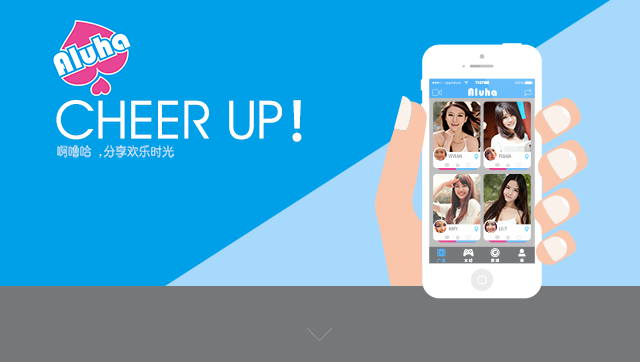
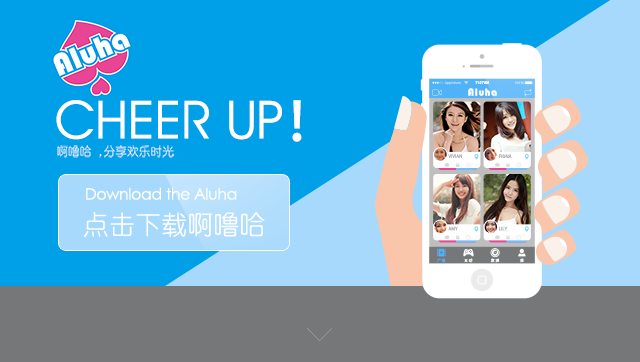
手机界面

Changed region(s): [[0.0938, 0.4558, 0.4688, 0.6989]]

diff --git a/m2/index.html b/m2/index.html
@@ -8,18 +8,12 @@
   <meta content="telephone=no" name="format-detection" />
   <link rel="stylesheet" href="css/normalize.css">
   <link rel="stylesheet" href="css/index.css">
-  <link rel='stylesheet' type='text/css' media='all' href="/css/responsed.css"/>
   <script src="../js/vendor/jquery-1.10.2.min.js"></script>
   <title>Aluha : 啊噜哈，分享欢乐时光</title>
 </head>
 <body>
   <nav>
     <div id="navbar-wapper">
-      <div class="nav-btn">
-        <span></span>
-        <span></span>
-        <span></span>
-      </div>
       <div class="navbar-header">
           <a class="navbar-brand" href="/m/">
               <img src="img/aluha_logo.png" alt="">
@@ -28,32 +22,26 @@
 
       <div class="navbar-collapse">
           <ul class="nav navbar-nav">
-            <li><a href="../?cat=9">Aluha GIRLS</a></li>
-            <li><a href="../?cat=2">产品动态</a></li>
-            <li><a href="../?cat=3">关于我们</a></li>
-            <li><a href="../?page_id=2">帮助中心</a></li> 
-            <li><a href="../charge.php">充值中心</a></li>      
+            <li><a href="../?cat=9">Aluha GIRLS</a></li> 
           </ul>    
       </div>
     </div>
   </nav>
-  <div id="firstscreen">
+  
+  <div style="width:100%">
     <a href="../dl_info.php">
-      <img src="img/download.png" alt="" />
+      <img width="100%" src="img/1stscreen.png" alt="" />
     </a>
+    <img width="100%" src="img/secondscreen.png" alt="" />
+    <img width="100%" src="img/thirdscreen.png" alt="" />
+    <img width="100%" src="img/fourthscreen.png" alt="" />
+    <img width="100%" src="img/footer.png" alt="" />
   </div>
-  <div id="secondscreen"></div>
+  <!-- <div id="secondscreen"></div>
   <div id="thirdscreen"></div>
   <div id="fourthscreen"></div>
-  <footer></footer>
+  <footer></footer> -->
 
-  <script type="text/javascript">
-      window.$ = jQuery;
-      $(document).ready(function () {
-        $("div.nav-btn").click(function(e){
-          $(".navbar-collapse").toggle("fast");
-        })
-      })
-    </script>
+  
 </body>
 </html>

diff --git a/m2/css/index.css b/m2/css/index.css
@@ -8,6 +8,7 @@ nav
 	width:100%;
 	background-color:#005b85;
 	border-bottom:5px solid #005074;
+	height: 80px;
 }
 
 #navbar-wapper {
@@ -16,10 +17,10 @@ nav
 	margin:0 auto;
 }
 .navbar-header{
-	float:none;
 	width:150px;
 	height:80px;
-	margin: 0 auto;
+	margin-left: 20px;
+	float:left;
 }
 
 
@@ -36,36 +37,37 @@ nav
 
 .navbar-collapse
 {
-	/*float:right;*/
-	background-color: #a7d9fc;
-	display: none;
+	float: right;
+
 }
 
 .navbar-collapse ul
 {
 	margin:0;
+	margin-right:20px;
 	padding: 0;
 	list-style: none;
+
 }
 
 .navbar-collapse ul li
 {
-	border-top:1px solid #005072;
-	display: block;
+	display: inline-block;
+	line-height: 120px;
+	height:80px;
 }
 
 .navbar-collapse ul li a
 {
-	color: #0082bd;
-	display: block;
-	width:90%;
+	color: #a6d9fb;
+	/*display: block;*/
+	width:260px;
 	font-weight: 400;
-	font-size:24px;
-	height:80px;
+	font-size:2em;
+	height:120px;
 	line-height: 80px;
-	padding: 0px 5px;
+	/*padding: 0px 5px;*/
 	text-shadow: none;
-	margin:0 auto;
 }
 
 
@@ -100,17 +102,12 @@ nav
 {
 	width:100%;
 	height: 362px;
-	background: url(../img/1stscreen.png) no-repeat scroll;
+	/*background: url(../img/1stscreen.png) no-repeat scroll;*/
 	background-size:100% 100%;
 	position: relative;
 }
 
-#firstscreen a
-{
-	position: absolute;
-	top:187px;
-	left:58px;
-}
+
 
 #secondscreen
 {

diff --git a/wp-content/themes/twentythirteen/css/responsed.css b/wp-content/themes/twentythirteen/css/responsed.css
@@ -92,4 +92,9 @@
 		background-color: #a7d9fc;
 
 	}
+	/*for aluha girls make it two column*/
+	.girls
+	{
+		width:520px !important;
+	}
 }

diff --git a/wp-content/themes/twentythirteen/header-girls.php b/wp-content/themes/twentythirteen/header-girls.php
@@ -93,11 +93,17 @@
 <body <?php body_class(); ?>>
 	<nav class="navbar" >
         <div id="navbar-wapper">
+        	<?php
+        		$userAgent = $_SERVER['HTTP_USER_AGENT'];
+        	 	// echo strpos($userAgent, "Android");
+        	 ?>
+        	<?php if (strpos($userAgent, "Android") == false) {?>
         	<div class="nav-btn">
 				<span></span>
 				<span></span>
 				<span></span>
 			</div>
+			<?php } ?>
 			<div class="navbar-header">
 				<a class="navbar-brand" href="/">
 					<img src="wp-content/uploads/2014/01/aluha_logo.png" alt="">

diff --git a/wp-content/themes/twentythirteen/category-9.php b/wp-content/themes/twentythirteen/category-9.php
@@ -28,7 +28,7 @@ get_header('girls'); ?>
 	<section id="breadcrumbs">
 		<?php if (function_exists('dimox_breadcrumbs')) dimox_breadcrumbs(); ?>
 	</section>
-	<div id="page" class="hfeed site">
+	<div id="page" class="hfeed site girls">
 		<div id="main" class="site-main ">
 		<?php if ( have_posts() ) : ?>
 
